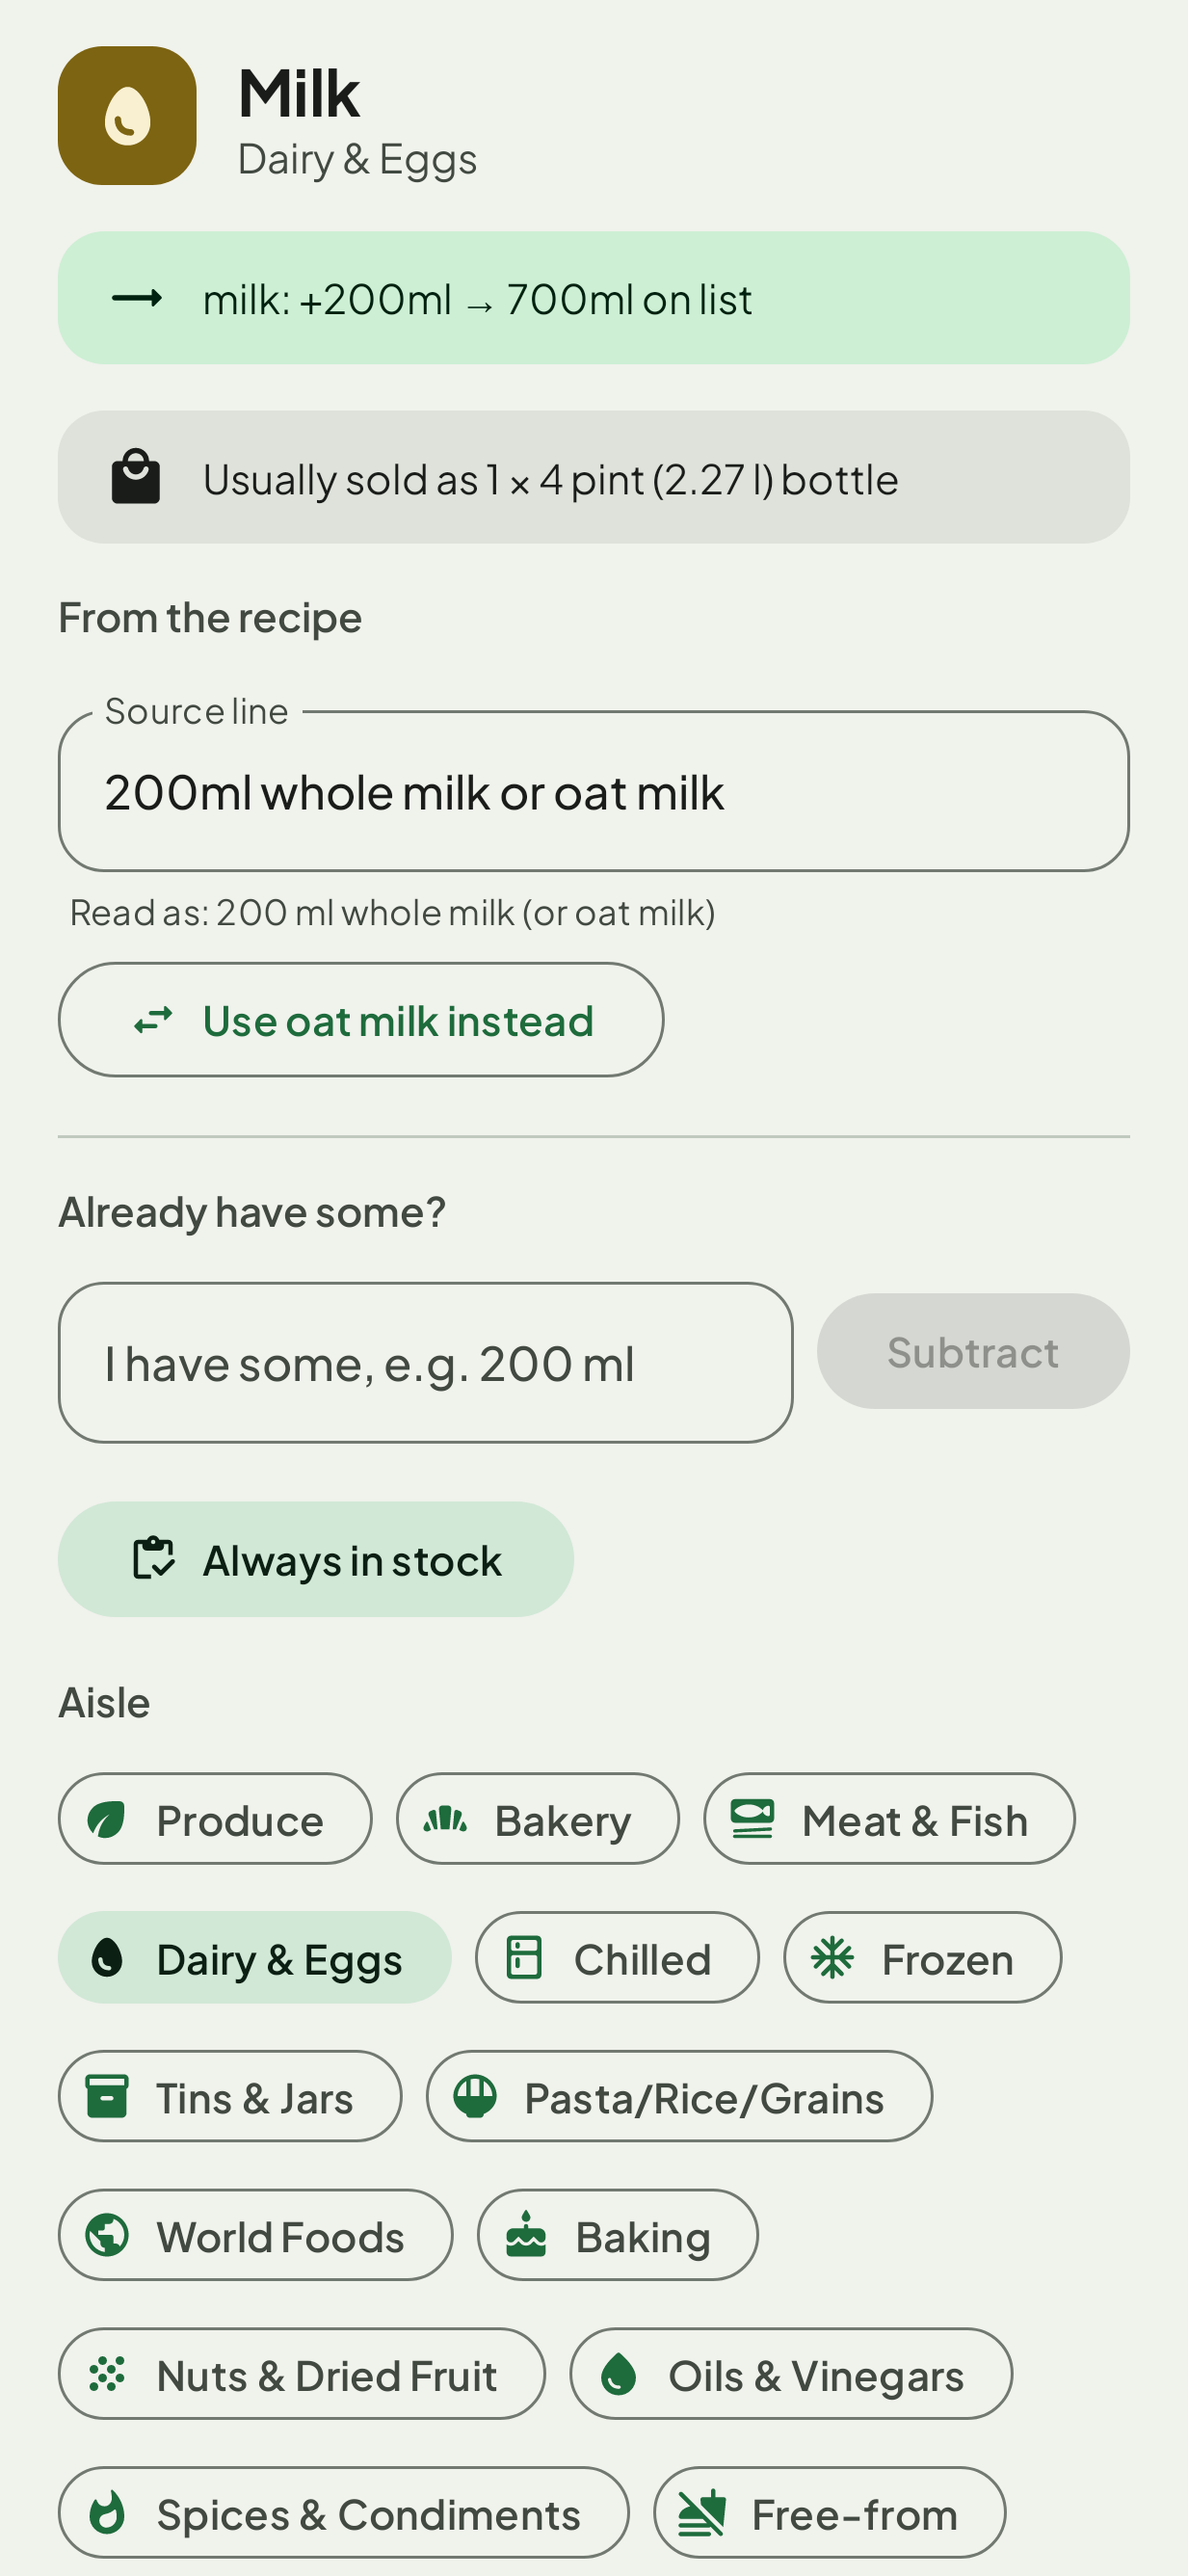
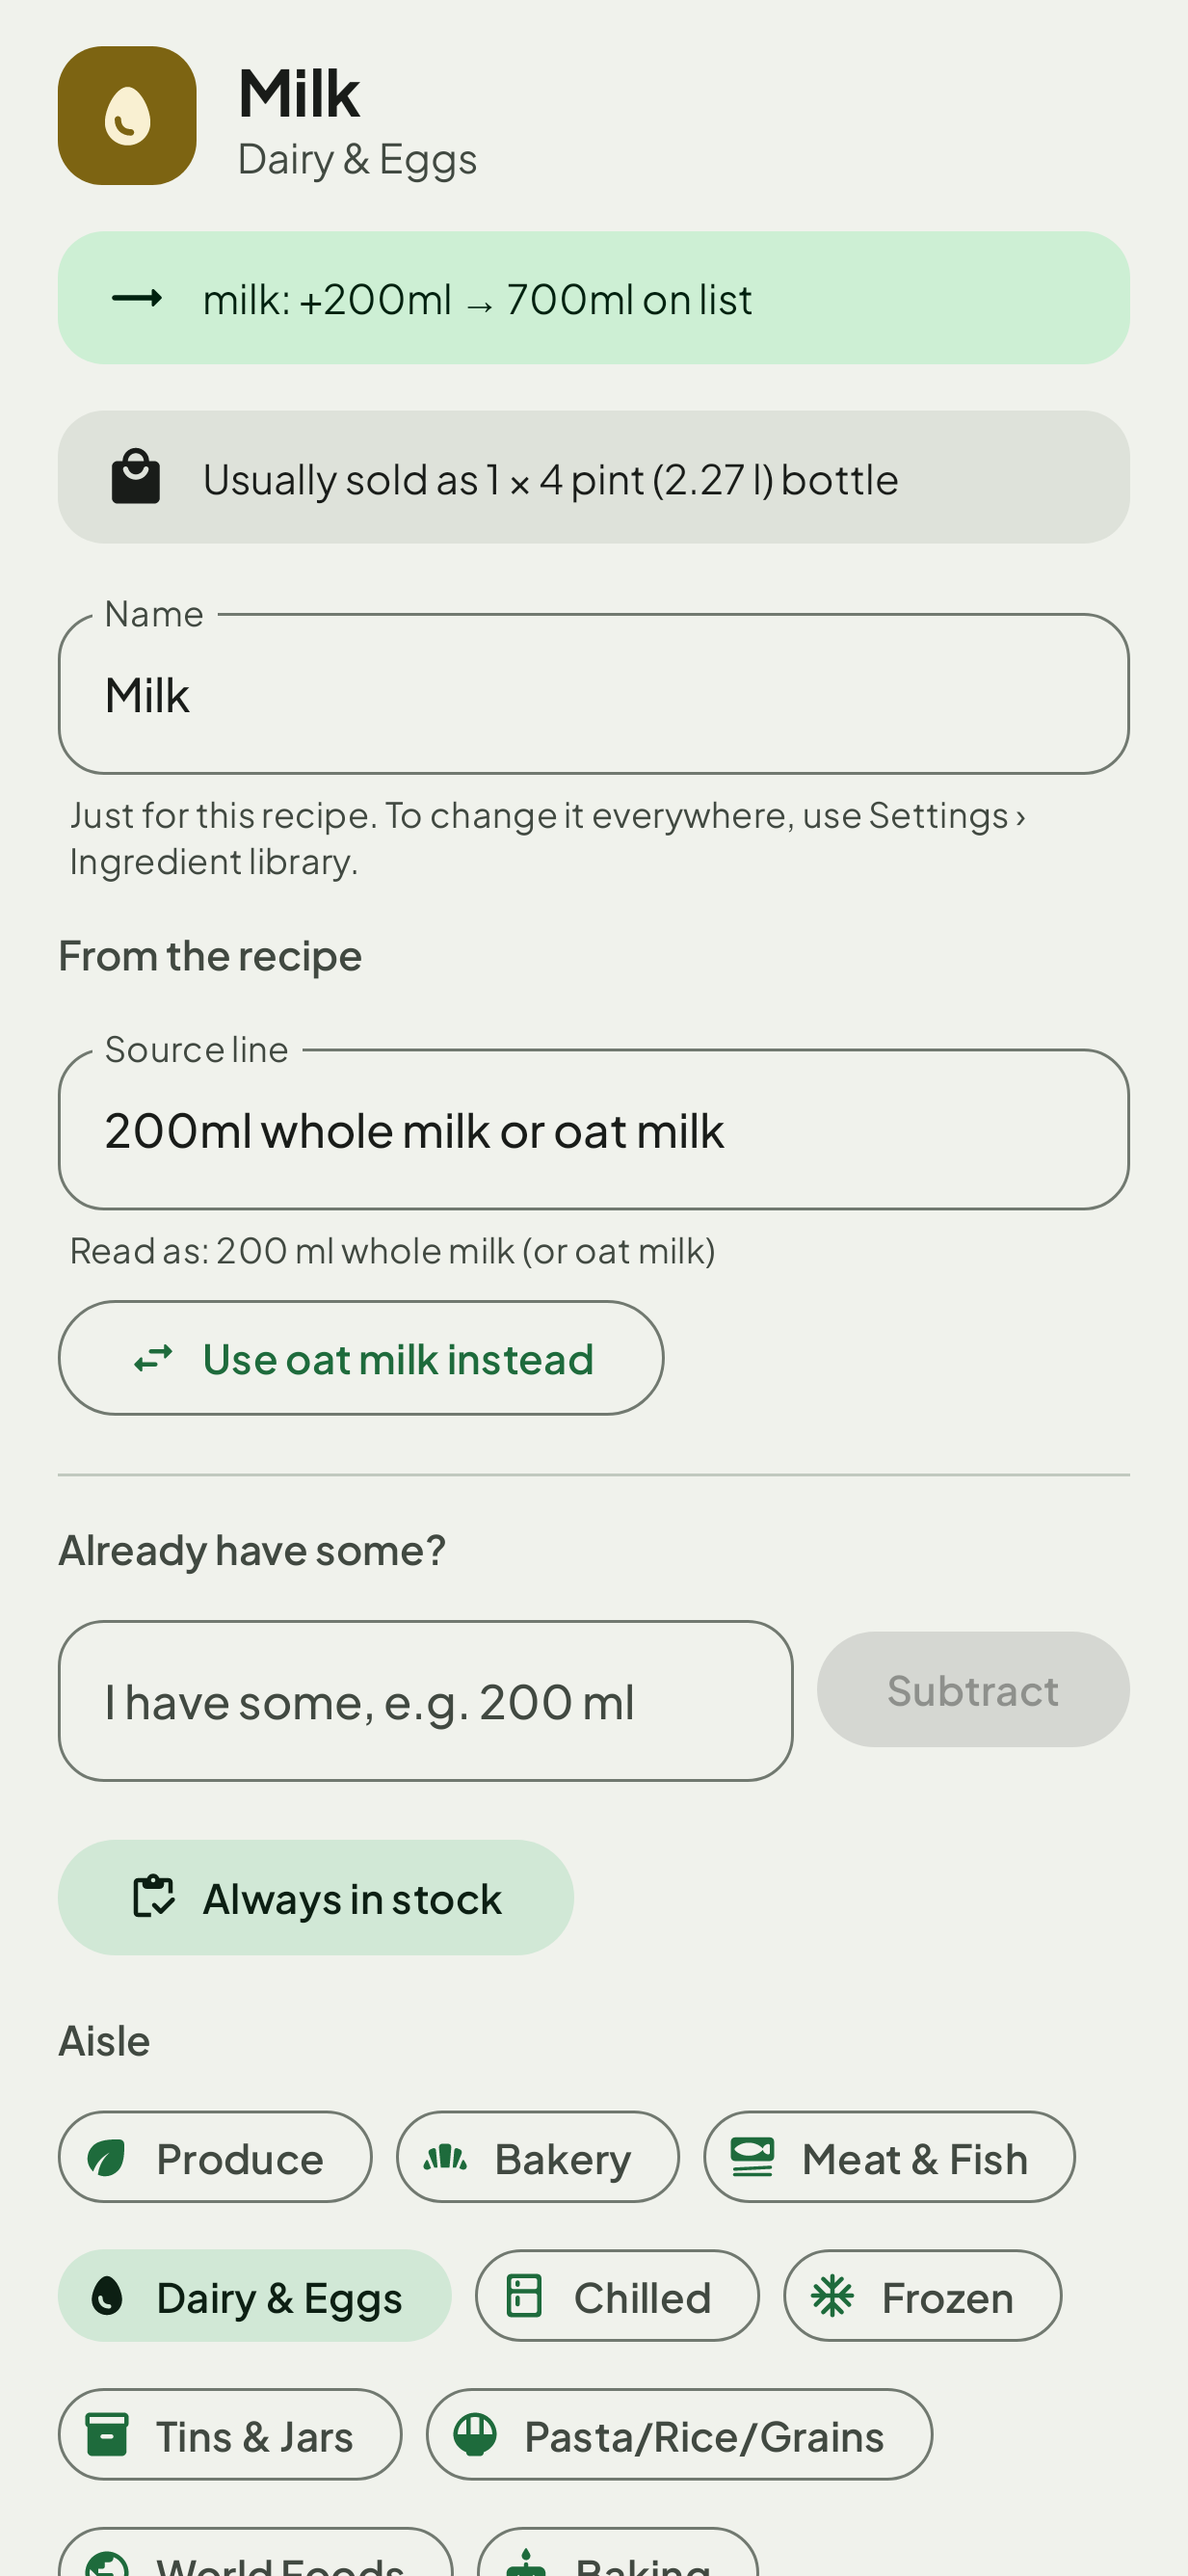
[feature] Rename an item on the review screen, for this recipe only
The review row sheet gets a Name field. Renaming re-reads every line of
the row under the new name for this recipe only (the ingredient library
is unchanged): a name the library knows joins that ingredient, any other
becomes an item of its own. The row's in-stock, "I have some" and aisle
choices follow it.

Claude-Session: https://claude.ai/code/session_016z2Qp5Lw5mkgJm6Jzuit5a

diff --git a/android/app/src/main/java/com/robert4lyf/hypershop/ui/review/ReviewRowSheet.kt b/android/app/src/main/java/com/robert4lyf/hypershop/ui/review/ReviewRowSheet.kt
@@ -11,6 +11,8 @@ import androidx.compose.foundation.layout.padding
 import androidx.compose.foundation.layout.size
 import androidx.compose.foundation.rememberScrollState
 import androidx.compose.foundation.shape.RoundedCornerShape
+import androidx.compose.foundation.text.KeyboardActions
+import androidx.compose.foundation.text.KeyboardOptions
 import androidx.compose.foundation.verticalScroll
 import androidx.compose.material.icons.Icons
 import androidx.compose.material.icons.automirrored.rounded.TrendingFlat
@@ -40,6 +42,8 @@ import androidx.compose.runtime.remember
 import androidx.compose.runtime.setValue
 import androidx.compose.ui.Modifier
 import androidx.compose.ui.platform.testTag
+import androidx.compose.ui.text.input.ImeAction
+import androidx.compose.ui.text.input.KeyboardCapitalization
 import androidx.compose.ui.unit.dp
 import com.robert4lyf.hypershop.core.model.AisleCode
 import com.robert4lyf.hypershop.ui.common.AmountField
@@ -57,6 +61,8 @@ data class SheetActions(
     val onMoveAisle: (AisleCode, Boolean) -> Unit,
     val onEditLine: (Long, String) -> Unit,
     val reparse: (String) -> String,
+    /** A new name, for this recipe only. */
+    val onRename: (String) -> Unit = {},
 )
 
 @OptIn(ExperimentalMaterial3Api::class)
@@ -89,6 +95,10 @@ internal fun ReviewRowSheetHost(
                     onDismiss()
                 },
                 reparse = vm::reparse,
+                onRename = {
+                    vm.rename(key, it)
+                    onDismiss()
+                },
             ),
         )
     }
@@ -108,6 +118,7 @@ fun ReviewRowSheet(
             SheetHeader(sheet.name, sheet.aisle)
             InfoBanner(sheet.effect, Icons.AutoMirrored.Rounded.TrendingFlat, Modifier.testTag("effect"), Tone.PRIMARY)
             sheet.packNote?.let { InfoBanner("Usually sold as $it", Icons.Rounded.LocalMall) }
+            key(sheet.key) { Rename(sheet.name, actions.onRename) }
             SectionLabel(if (sheet.lines.size == 1) "From the recipe" else "From the recipe (${sheet.lines.size} lines)")
             for (line in sheet.lines) key(line.id) { LineEditor(line, actions) }
             HorizontalDivider(color = MaterialTheme.colorScheme.outlineVariant)
@@ -121,6 +132,35 @@ fun ReviewRowSheet(
             }
             MoveAisle(sheet.aisle, actions.onMoveAisle)
         }
+    }
+}
+
+/** The item's name for this recipe only; the library keeps its own. */
+@Composable
+private fun Rename(
+    current: String,
+    onRename: (String) -> Unit,
+) {
+    var text by remember { mutableStateOf(current.replaceFirstChar { it.uppercase() }) }
+    val changed = text.isNotBlank() && !text.trim().equals(current, ignoreCase = true)
+    Column(verticalArrangement = Arrangement.spacedBy(6.dp)) {
+        OutlinedTextField(
+            value = text,
+            onValueChange = { text = it },
+            label = { Text("Name") },
+            singleLine = true,
+            shape = RoundedCornerShape(16.dp),
+            keyboardOptions = KeyboardOptions(capitalization = KeyboardCapitalization.Sentences, imeAction = ImeAction.Done),
+            keyboardActions = KeyboardActions(onDone = { if (changed) onRename(text) }),
+            modifier = Modifier.fillMaxWidth().testTag("rename"),
+        )
+        Text(
+            "Just for this recipe. To change it everywhere, use Settings › Ingredient library.",
+            style = MaterialTheme.typography.bodySmall,
+            color = MaterialTheme.colorScheme.onSurfaceVariant,
+            modifier = Modifier.padding(horizontal = 4.dp),
+        )
+        if (changed) Button(onClick = { onRename(text) }, modifier = Modifier.testTag("rename-go")) { Text("Rename") }
     }
 }
 

diff --git a/android/app/src/test/java/com/robert4lyf/hypershop/ui/review/ReviewRowSheetTest.kt b/android/app/src/test/java/com/robert4lyf/hypershop/ui/review/ReviewRowSheetTest.kt
@@ -91,6 +91,24 @@ class ReviewRowSheetViewModelTest {
     }
 
     @Test
+    fun renameIsForThisRecipeOnly() {
+        val (c, vm) = vm("2 tbsp agave syrup", "1 tsp agave nectar", "2 onions")
+        vm.setInStock("cat:agave_syrup", true)
+        vm.rename("cat:agave_syrup", "Maple syrup")
+        val keys = { s: ReviewState -> (s as? ReviewState.Ready)?.ui?.aisles?.flatMap { it.second }?.map { it.key }.orEmpty() }
+        val ui = await(vm.state) { "cat:maple_syrup" in keys(it) }.ui()
+        // Both lines moved, and the row's "in stock" went with them.
+        assertEquals(2, vm.sheet("cat:maple_syrup")!!.lines.size)
+        assertTrue(ui.row("cat:maple_syrup").inStock)
+        // A name the library doesn't know is an item of its own.
+        vm.rename("cat:onion", "Banana shallots from the market")
+        await(vm.state) { s -> s is ReviewState.Ready && "cat:onion" !in keys(s) }
+        // The library is untouched.
+        assertEquals("agave syrup", c.catalog.byId.getValue("agave_syrup").name)
+        assertEquals(null, c.catalog.byId.getValue("agave_syrup").replaceWith)
+    }
+
+    @Test
     fun editTheSourceLine() {
         val (_, vm) = vm("2 onoins")
         assertEquals("2 red onion", vm.reparse("2 red onions").replace("onions", "onion"))
@@ -129,6 +147,7 @@ class ReviewRowSheetScreenTest {
             onMoveAisle = { a, always -> events += "move $a $always" },
             onEditLine = { id, t -> events += "edit $id $t" },
             reparse = { "parsed:$it" },
+            onRename = { events += "rename $it" },
         )
 
     private fun show(dark: Boolean = false) =
@@ -148,7 +167,9 @@ class ReviewRowSheetScreenTest {
         compose.onNodeWithText("Use this line").performClick()
         compose.onNodeWithText("Frozen").performClick()
         compose.onNodeWithText("Just this time").performClick()
-        assertEquals(listOf("swap 7", "always", "have 1 l", "edit 7 300ml milk", "move FROZEN false"), events)
+        compose.onNodeWithTag("rename").performTextReplacement("Oat milk")
+        compose.onNodeWithTag("rename-go").performClick()
+        assertEquals(listOf("swap 7", "always", "have 1 l", "edit 7 300ml milk", "move FROZEN false", "rename Oat milk"), events)
     }
 
     @Test

diff --git a/android/app/src/main/java/com/robert4lyf/hypershop/ui/review/ReviewViewModel.kt b/android/app/src/main/java/com/robert4lyf/hypershop/ui/review/ReviewViewModel.kt
@@ -517,16 +517,43 @@ class ReviewViewModel(
         replaceLine(lineId) { old -> c.ruleParser.parse(text).copy(section = old.section) }
     }
 
+    /**
+     * "Rename": the row's lines are read as [name] for this recipe only; the
+     * ingredient library is unchanged. A name the library knows joins that
+     * ingredient ("maple syrup"); any other becomes an item of its own. What was
+     * decided for the row (in stock, "I have some", an aisle move) goes with it.
+     */
+    fun rename(
+        key: String,
+        name: String,
+    ) = act {
+        val n = name.trim().lowercase()
+        val ids = preview?.incoming?.lines?.filter { it.target.mergeKey == key }?.map { it.recipeLineId }?.toSet()
+        if (n.isEmpty() || ids.isNullOrEmpty()) return@act
+        val to = c.repository.target(n).mergeKey
+        if (to != key) {
+            decisions.remove(key)?.let { decisions.putIfAbsent(to, it) }
+            aisleMoves.remove(key)?.let { aisleMoves.putIfAbsent(to, it) }
+        }
+        // Claude's aisle was for the old name.
+        replaceLines(ids) { it.copy(name = n, aisleSuggestion = null) }
+    }
+
     private suspend fun replaceLine(
         lineId: Long,
+        f: (com.robert4lyf.hypershop.core.model.ParsedIngredient) -> com.robert4lyf.hypershop.core.model.ParsedIngredient,
+    ) = replaceLines(setOf(lineId), f)
+
+    private suspend fun replaceLines(
+        lineIds: Set<Long>,
         f: (com.robert4lyf.hypershop.core.model.ParsedIngredient) -> com.robert4lyf.hypershop.core.model.ParsedIngredient,
     ) {
         val s = stored ?: return
         val r = result ?: return
-        val index = s.lines.indexOfFirst { it.first.id == lineId }.takeIf { it >= 0 } ?: return
         val lines = r.lines.toMutableList()
-        if (index !in lines.indices) return
-        lines[index] = f(lines[index])
+        val indices = s.lines.indices.filter { s.lines[it].first.id in lineIds && it in lines.indices }
+        if (indices.isEmpty()) return
+        for (i in indices) lines[i] = f(lines[i])
         val edited = r.copy(lines = lines)
         store(edited)
         result = edited
